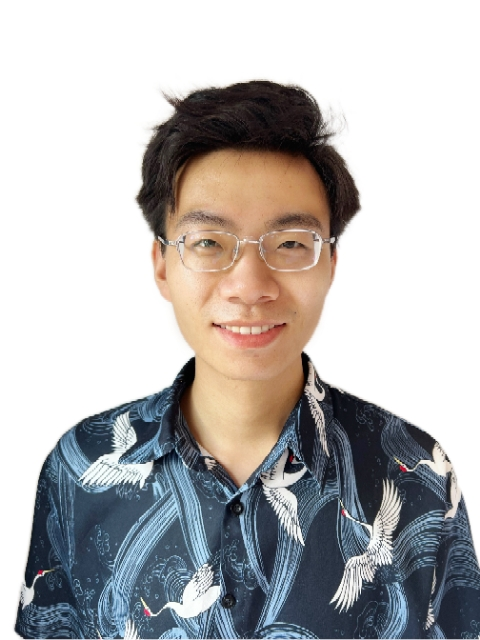
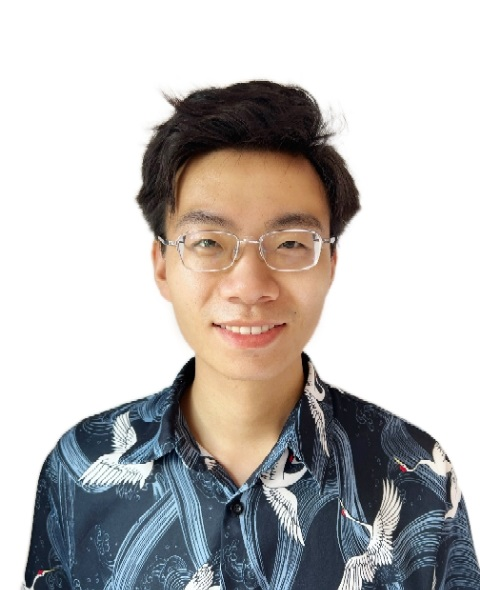
"fix pic"

diff --git a/index.html b/index.html
@@ -13,7 +13,7 @@ title: Paul E. Soto
 </script>
 
   
-<img src="profile_picture.jpg" alt="Tian Yu" style="width:520px;height:360px;" title="Tian Yu"; algin="middle">
+<img src="profile_picture.jpg" alt="Tian Yu" style="width:360px;height:520px;" title="Tian Yu"; algin="middle">
 <br>
 Welcome! My name is Paul and I am a senior economist at the Federal Reserve Board in Washington, D.C. and also teach Text Mining for Economics and Finance at the University of Maryland.
 
